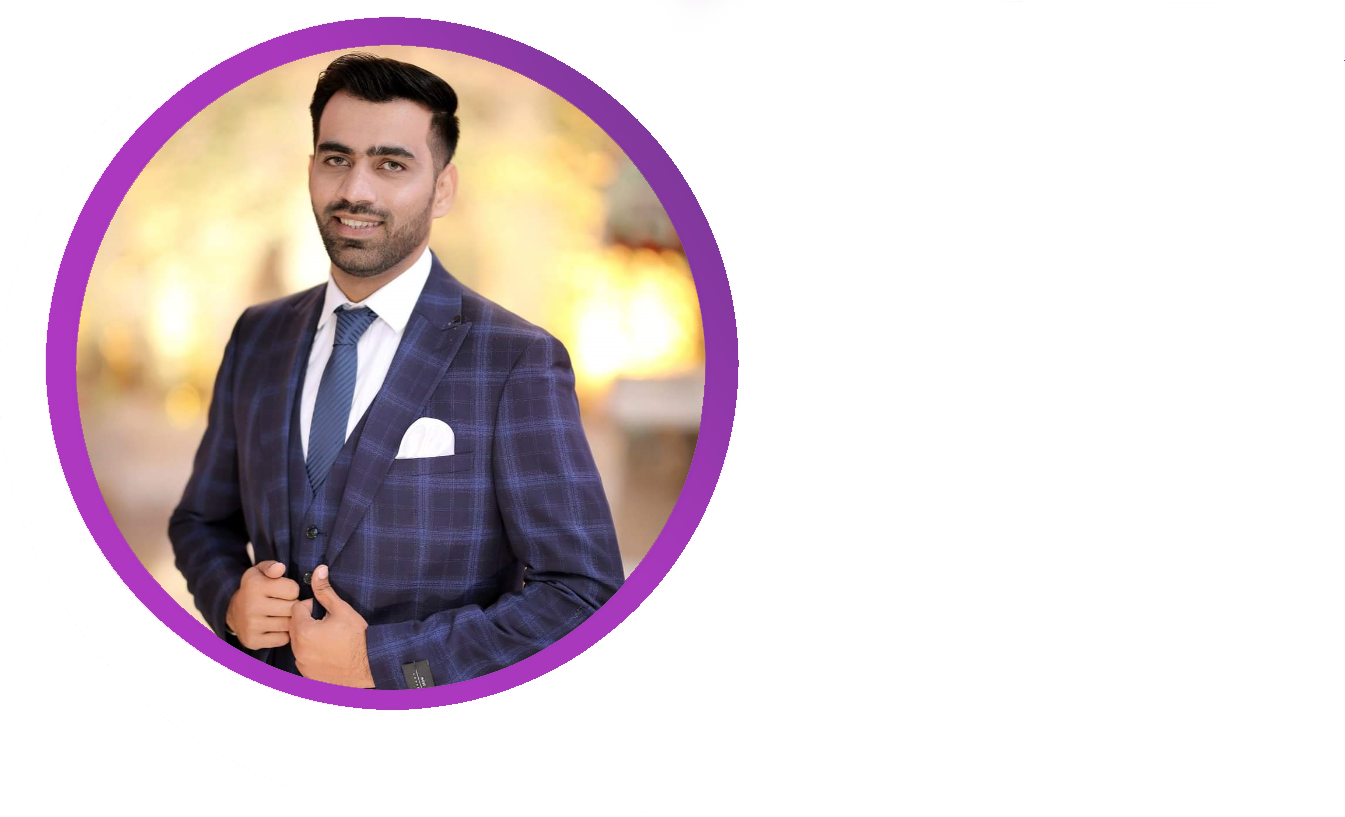
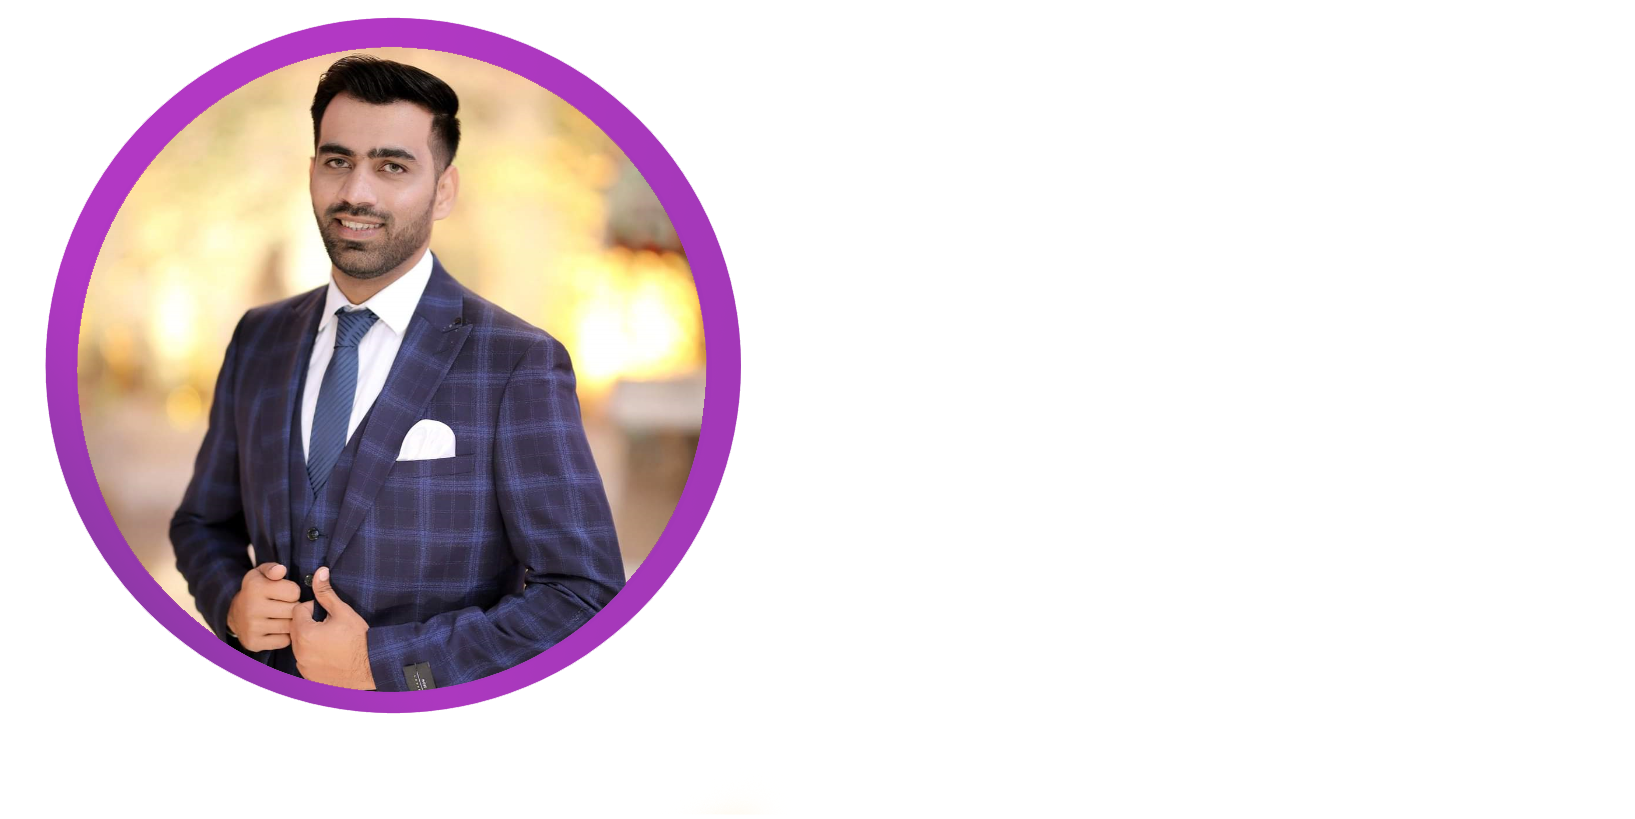
Add files via upload

Changed region(s): [[0.0, 0.0, 0.5621, 0.8874]]

diff --git a/style.css b/style.css
@@ -63,8 +63,10 @@ padding-top: 5%;
     background-color: whitesmoke;
     color: black;
     font-size: 20px;
-    width: 25%;
-    opacity: 25%;
+    width: 30%;
+    opacity: 30%;
+    border-radius: 20px;
+    padding-left: 20px;
 }
 .web-text{
     font-weight: 600;
@@ -108,9 +110,9 @@ padding-top: 5%;
     width: 20%;
 }
 #pic{
-width: 150%;
-margin-left: -12%;
-margin-top: -6%;
+    width: 150%;
+    margin-left: -12%;
+    margin-top: -6%;
 }
 .box{
     margin-top: auto;
@@ -140,7 +142,7 @@ margin-top: -6%;
     background-image :linear-gradient(to right, #a517ba, #5f1782);
     color: white;
     font-size: 20px;
-    width: 20%;
+    width: 22%;
     margin-right: 25%;
     opacity: 100;
     margin-top: -8%;

diff --git a/index.html b/index.html
@@ -58,7 +58,7 @@
         </div>
 
         <div class="col-md-6 textcenter " >
-            <img src="img/pro1.2.png" id="pic" >
+            <img src="img/pro1.png" id="pic" >
 
         
         </div>
